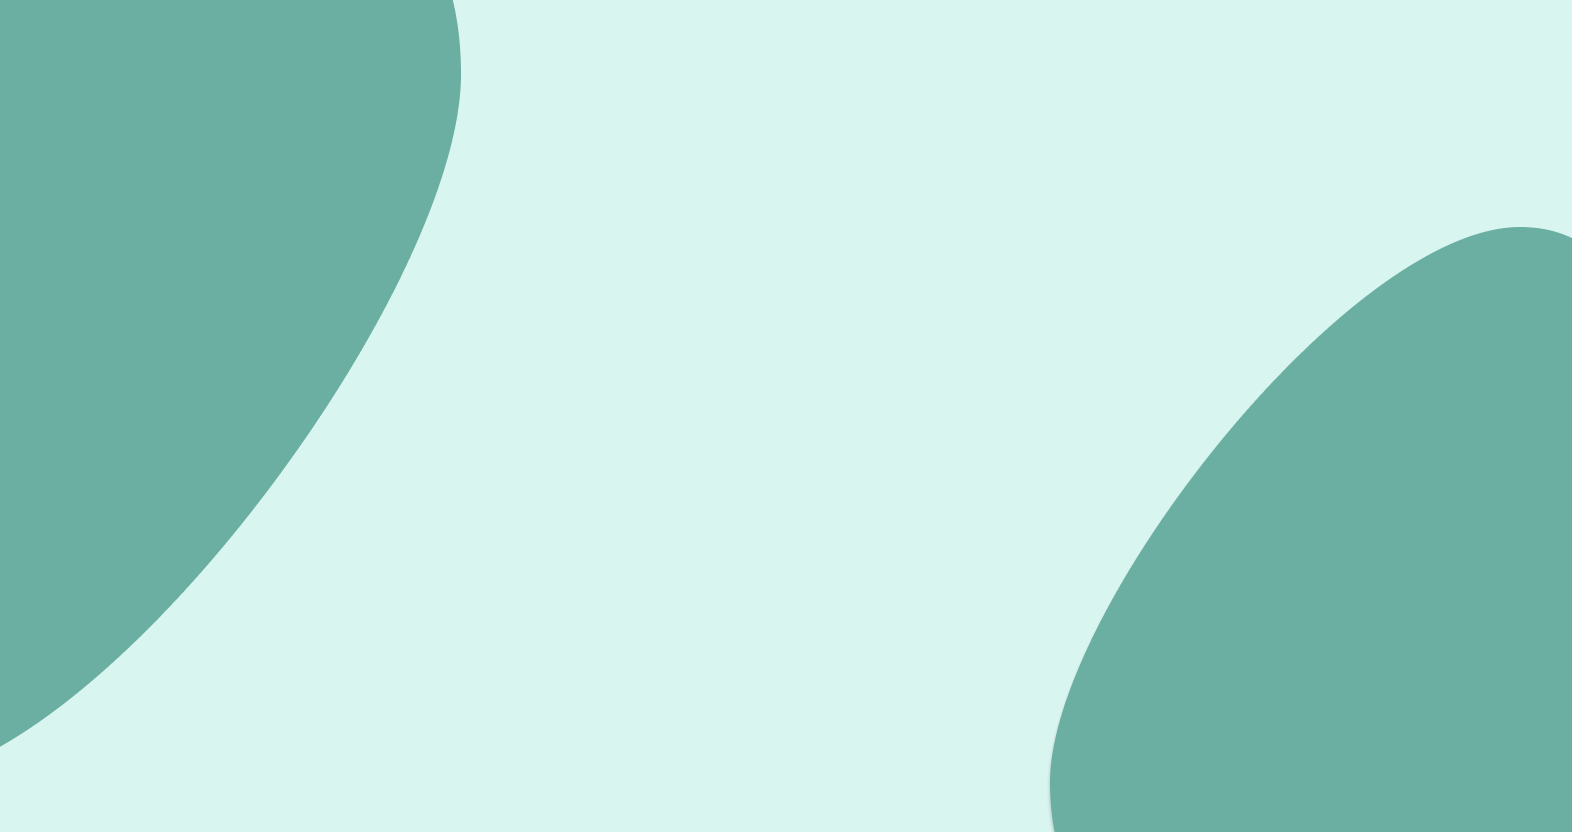
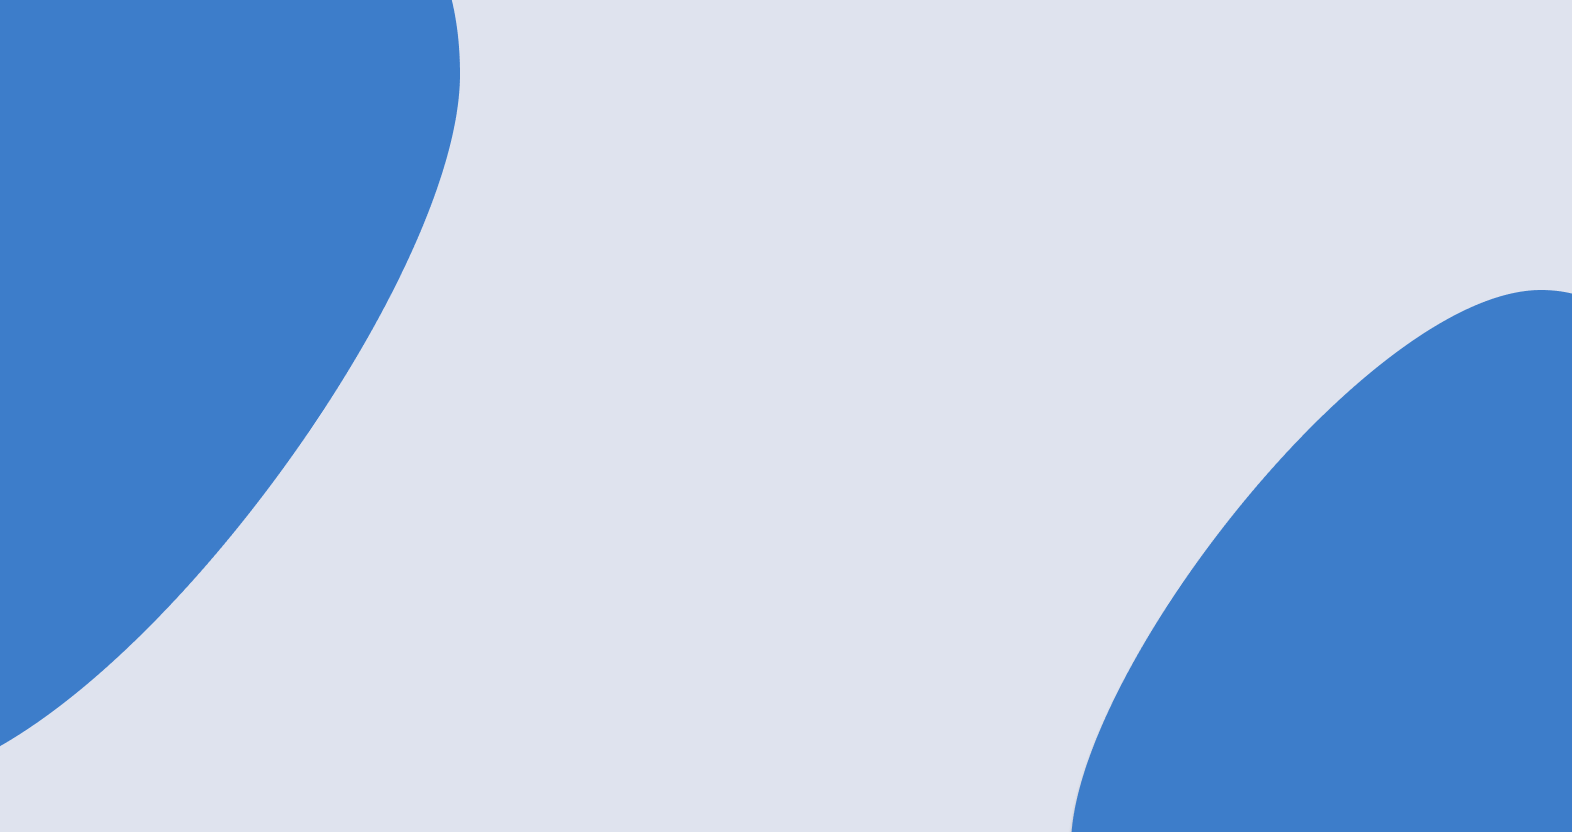
new colors

diff --git a/src/styles/components/commonPage.scss b/src/styles/components/commonPage.scss
@@ -1,10 +1,8 @@
 .common_cont {
-  box-shadow: 0 0 0 0 grey inset;
-  border: 0px solid green;
   padding: 20px 20px;
-  background: white;
-  width: 500px;
-  height: 400px;
+  background: $Blue3;
+  width: 32%;
+  height: 55%;
   @include flex(center, center, "");
   text-align: center;
   flex-direction: column;
@@ -15,17 +13,23 @@
   transform: translate(-50%, -50%);
 
   &_icon {
-    border: 0px solid green;
     @include flex(center, center, "");
     border-radius: 5px;
-    @include colorandback(white, $Blue4);
-    width: 70px;
-    height: 70px;
-    font-size: 60px;
+    @include colorandback(whitesmoke, RED);
+    background: transparent;
+    width: 30%;
+    height: 10%;
+    font-size: 4rem;
+  }
+  &_text {
+    color: whitesmoke;
+    padding: 1rem 1rem;
+  }& h3,h2{
+    padding: 1rem 1rem;
+    font-size: 1.5rem;
   }
 
   &_bar {
-    border: 0px solid black;
     padding: 2%;
     @include flex(center, center, "");
     width: 100%;
@@ -33,37 +37,36 @@
 
     &_box {
       @include flex("", center, "");
-      border: 0px solid greenyellow;
-      background: linear-gradient($White4, $White4);
       border-radius: 20px;
       padding: 0%;
       width: 80%;
       height: auto;
 
       &_line {
-        border: 0px solid red;
         min-height: 15px;
         border-radius: 20px;
-        background: $Blue4;
+        background: whitesmoke;
         animation: loading 2s forwards cubic-bezier(0, 0, 0, 0);
       }
     }
   }
 
   &_btn {
-    padding: 40px 0 0 0;
+    padding: 0rem 0 0 0;
+    width: 90%;
+    height: 12%;
 
     & button {
-      background: $Blue4;
-      width: 400px;
-      height: 40px;
+      background: whitesmoke;
+      width: 100%;
+      height: 100%;
       border: none;
       border-radius: 3px;
-      color: white;
+      color: $Blue3;
       cursor: pointer;
 
       &:hover {
-        background: $Blue3;
+        background: $Blue4;
       }
     }
   }
@@ -78,20 +81,4 @@
   }
 }
 
-@media (max-width: 700px) {
-  .common_cont {
-    &_text {
-      padding: 80px 0px;
 
-      & h1 {
-        font-size: 20px;
-        border: 0px solid black;
-      }
-
-      & h3 {
-        font-size: 12px;
-        border: 0px solid black;
-      }
-    }
-  }
-}

diff --git a/src/styles/components/loginTemplate.scss b/src/styles/components/loginTemplate.scss
@@ -16,7 +16,7 @@
     &-logo {
       width: 45%;
       padding: 2rem 2rem;
-      background: rgba(170, 220, 211, 0.83);
+      background: rgba(0, 48, 135, 0.6);
       display: flex;
       flex-direction: column;
       justify-content: space-evenly;
@@ -26,7 +26,7 @@
         color: white;
       }
       & img {
-        width: 30%;
+        width: 35%;
         height: 30%;
       }
     }
@@ -39,7 +39,7 @@
       align-items: center;
       &-title {
         & h2 {
-          color: #1c7a69;
+          color: $Blue3;
         }
       }
       &-form {
@@ -54,18 +54,18 @@
           margin: 1rem 0rem 0rem 0rem;
         }
         & button {
-          background: #1c7a69;
+          background: $Blue3;
           color: whitesmoke;
-          padding: 0.5rem 2rem;
+          padding: 0.5rem 3rem;
           border: none;
           border-radius: 50px;
         }
         & button:hover {
-          background: rgba(124, 188, 177, 0.83);
+          background: #6ea4e7;;
         }
         & a,
         h6 {
-          color: #1c7a69;
+          color: $Blue3;
           text-decoration: none;
         }
 

diff --git a/src/pages/GetEmail.jsx b/src/pages/GetEmail.jsx
@@ -1,5 +1,38 @@
-import React from "react";
+import { useState } from "react";
+import { useTranslation } from "react-i18next";
+import logo from "../shared/images/logo.png";
+import { LoginTemplate } from "../components/other/LoginTemplate";
 
 export const GetEmail = () => {
-  return <div>GetEmail</div>;
+  const { t } = useTranslation();
+  const [userUX, setUserUX] = useState({
+    loading: false,
+    error: false,
+    errorMsg: "",
+  });
+
+  const handleGetEmail = (e) => {
+    e.preventDefault();
+    setUserUX((prev) => ({ ...prev, loading: true, error: false }));
+
+  };
+
+  return (
+    <LoginTemplate
+      handle={handleGetEmail}
+      input1={t(`gtEmail.NatID`)}
+      userUX={userUX}
+      inputone={
+        <input
+          type="number"
+          minLength={6}
+          required
+        />
+      }
+      logo={logo}
+      forget={false}
+      title={t(`gtEmail.subtitle`)}
+      button={t(`gtEmail.button`)}
+    />
+  );
 };

diff --git a/src/pages/ForgetPwd.jsx b/src/pages/ForgetPwd.jsx
@@ -5,7 +5,7 @@ import { STUDENT_URL } from "../shared/API";
 import { useTranslation } from "react-i18next";
 import { BiError } from "react-icons/bi";
 import { FormButton } from "../components/buttons/Buttons";
-import lock from "../shared/images/lock.png";
+import frgt from "../shared/images/frgt.png";
 import { LoginTemplate } from "../components/other/LoginTemplate";
 
 export const ForgetPwd = () => {
@@ -53,7 +53,7 @@ export const ForgetPwd = () => {
           required
         />
       }
-      logo={lock}
+      logo={frgt}
       forget={false}
       title={t(`forget.subtitle`)}
       button={t(`forget.button`)}

diff --git a/src/pages/Login.jsx b/src/pages/Login.jsx
@@ -6,7 +6,7 @@ import { useAuth } from "../hooks/useAuth";
 import { useTranslation } from "react-i18next";
 import { BiError } from "react-icons/bi";
 import { FormButton } from "../components/buttons/Buttons";
-import cactus from "../shared/images/cactus.png";
+import logo from "../shared/images/logo.png";
 import { LoginTemplate } from "../components/other/LoginTemplate";
 
 export const Login = () => {
@@ -82,7 +82,7 @@ export const Login = () => {
           required
         />
       }
-      logo={cactus}
+      logo={logo }
       forget={true}
       title={t(`login.subtitle`)}
       button={t(`login.button`)}
